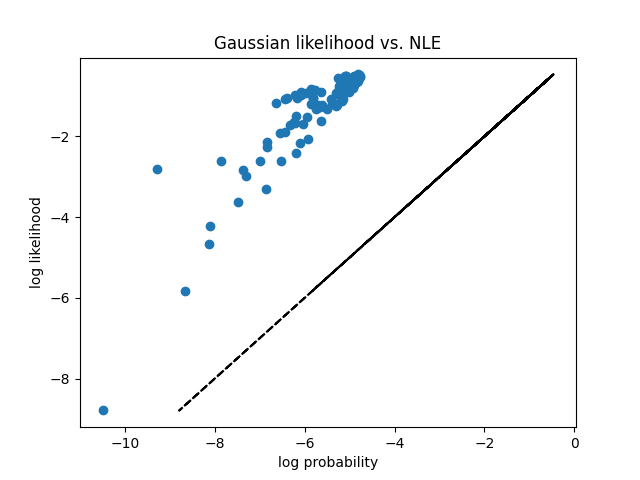
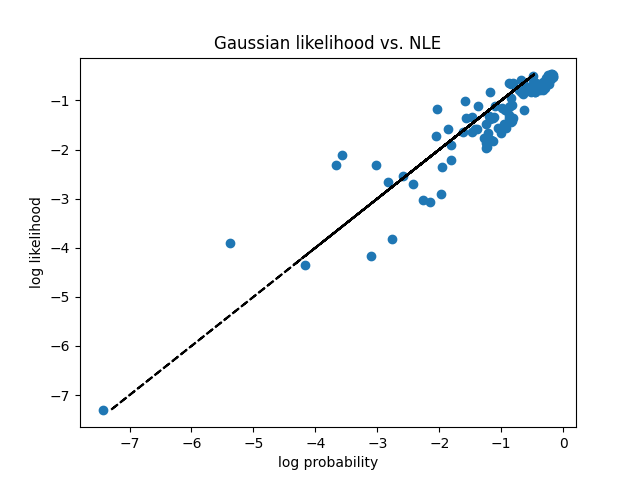
fixing nle normalisation stuff

diff --git a/sbi-package-test.py b/sbi-package-test.py
@@ -27,6 +27,8 @@ except FileNotFoundError:
     with open('gaussian_param_posterior.pkl', 'wb') as f:
         pickle.dump(posterior, f)
 
+print(posterior)
+
 samples = posterior.sample((100,), x=true_signal)
 log_probability = posterior.log_prob(samples, x=true_signal)
 _ = analysis.pairplot(samples, figsize=(6, 6))
@@ -37,9 +39,10 @@ def gaussian_likelihood(parameters):
         (-0.5*np.log(2*np.pi*0.5**2) - 0.5*(7 - parameters[1])**2/0.5**2)
 
 
-logL = [gaussian_likelihood(samples[i].numpy()) for i in range(len(samples))]
+logL = np.array([gaussian_likelihood(samples[i].numpy()) for i in range(len(samples))])
+prior = np.log(1/10*1/10)
 
-plt.plot(log_probability.numpy(), logL, 'o')
+plt.plot(log_probability.numpy()-prior, logL, 'o')
 plt.plot(logL, logL, 'k--')
 plt.ylabel('log likelihood')
 plt.xlabel('log probability')
